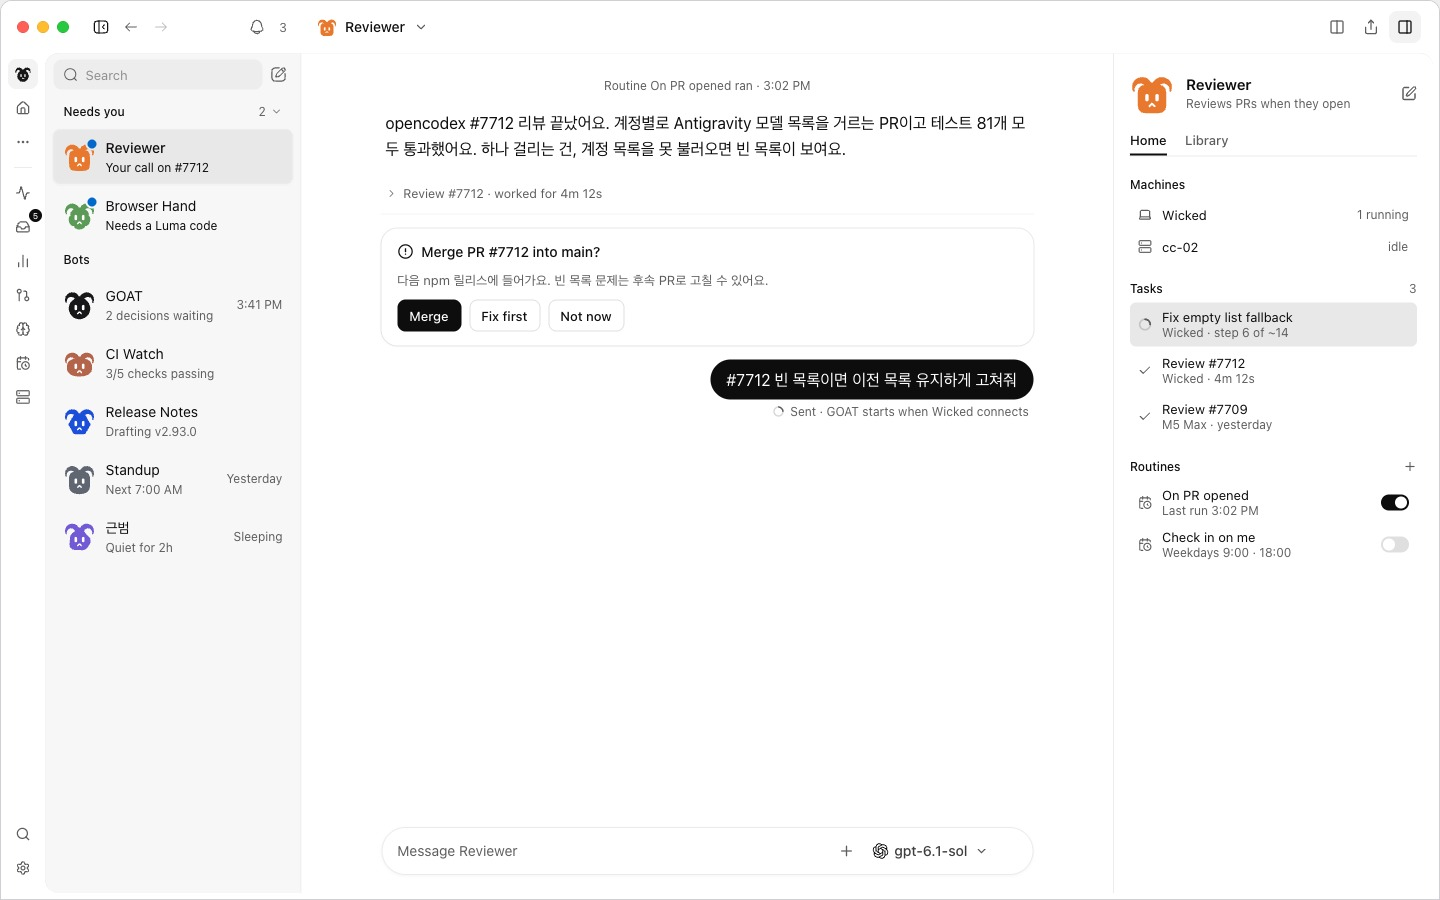
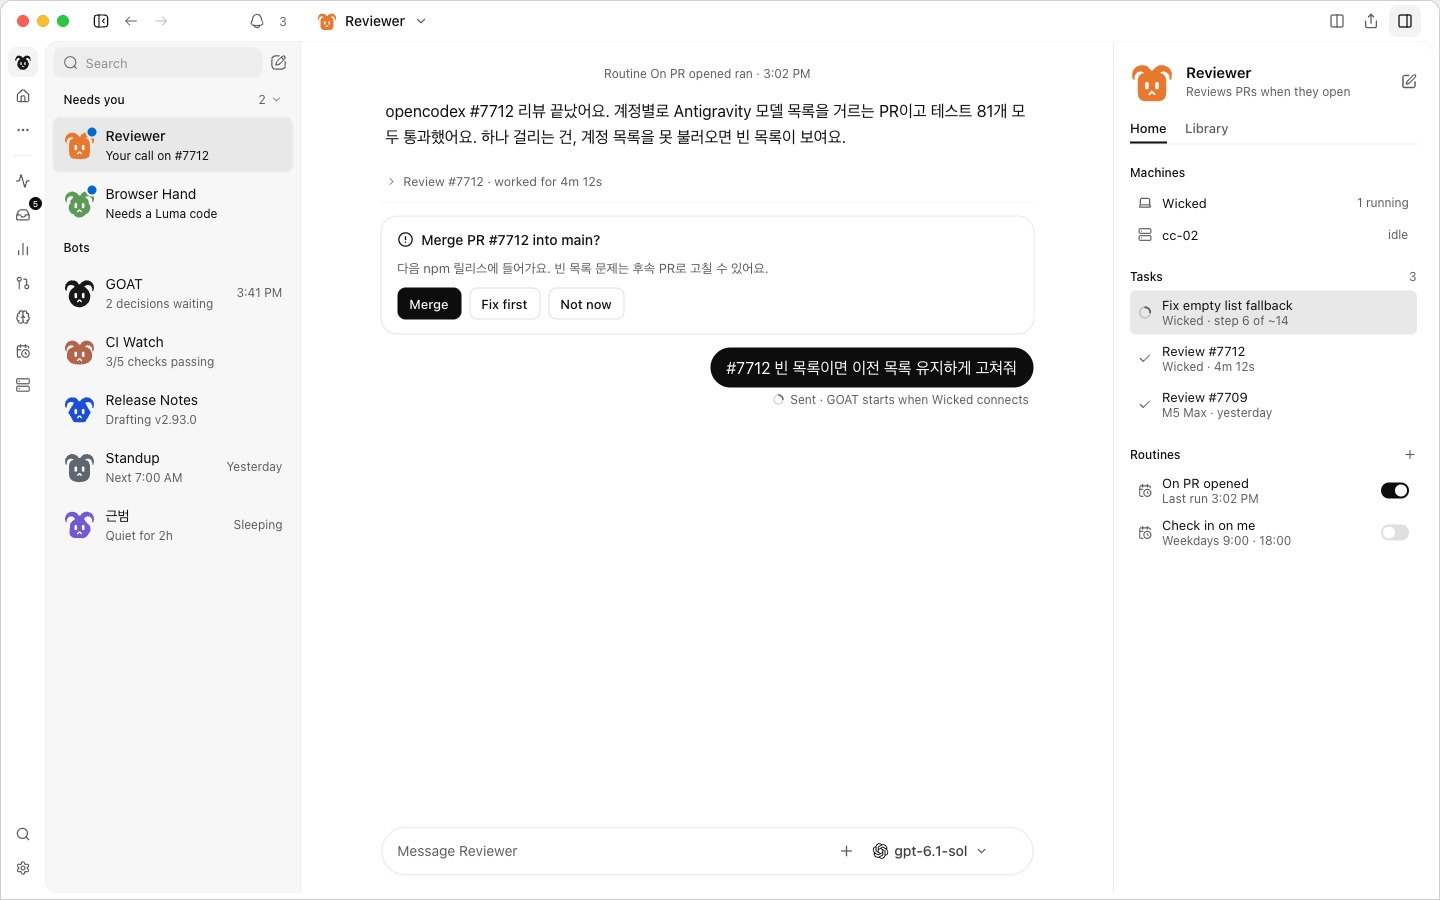
design: re-export Part 1 boards with 40px top bar; v1 timeline rendering; old prototype UI obsolete

diff --git a/design/paper/part1/12P-1.jsx b/design/paper/part1/12P-1.jsx
@@ -1,7 +1,7 @@
 (
     <div style={{ backgroundColor: '#FFFFFF', borderColor: '#CFCFD3', borderStyle: 'solid', borderTopLeftRadius: '12px', borderTopRightRadius: '12px', borderWidth: '1px', boxSizing: 'border-box', display: 'flex', flexDirection: 'column', fontSize: '12px', fontSynthesis: 'none', lineHeight: '16px', MozOsxFontSmoothing: 'grayscale', overflow: 'clip', overflowWrap: 'anywhere', WebkitFontSmoothing: 'antialiased' }}>
       <div style={{ backgroundColor: '#FFFFFF', boxSizing: 'border-box', display: 'flex', flexDirection: 'column', flexShrink: 0, height: '900px', minHeight: '0px', overflow: 'clip', width: '1440px' }}>
-        <div style={{ alignItems: 'center', boxSizing: 'border-box', display: 'flex', flexShrink: '0', height: '52px' }}>
+        <div style={{ alignItems: 'center', boxSizing: 'border-box', display: 'flex', flexShrink: '0', height: '40px', minHeight: '40px' }}>
           <div style={{ alignItems: 'center', boxSizing: 'border-box', display: 'flex', flexShrink: '0', gap: '10px', paddingLeft: '16px', paddingRight: '10px', width: '300px' }}>
             <div style={{ alignItems: 'center', boxSizing: 'border-box', display: 'flex', gap: '8px' }}>
               <div style={{ backgroundColor: '#FF5F57', borderRadius: 'calc(infinity * 1px)', boxShadow: '#0000001F 0px 0px 0px 0.5px inset', boxSizing: 'border-box', flexShrink: 0, height: '12px', width: '12px' }} />

diff --git a/design/paper/part1/U8-1.jsx b/design/paper/part1/U8-1.jsx
@@ -1,7 +1,7 @@
 (
     <div style={{ backgroundColor: '#FFFFFF', borderColor: '#D6D6D6', borderRadius: '8px', borderStyle: 'solid', borderWidth: '1px', boxSizing: 'border-box', display: 'flex', flexDirection: 'column', fontSize: '12px', fontSynthesis: 'none', lineHeight: '16px', MozOsxFontSmoothing: 'grayscale', overflow: 'clip', overflowWrap: 'anywhere', WebkitFontSmoothing: 'antialiased' }}>
       <div style={{ backgroundColor: '#FFFFFF', boxSizing: 'border-box', display: 'flex', flexDirection: 'column', flexShrink: 0, height: '900px', minHeight: '0px', overflow: 'clip', width: '1440px' }}>
-        <div style={{ alignItems: 'center', boxSizing: 'border-box', display: 'flex', flexShrink: '0', height: '52px' }}>
+        <div style={{ alignItems: 'center', boxSizing: 'border-box', display: 'flex', flexShrink: '0', height: '40px', minHeight: '40px' }}>
           <div style={{ alignItems: 'center', boxSizing: 'border-box', display: 'flex', flexShrink: '0', gap: '10px', paddingLeft: '16px', paddingRight: '10px', width: '300px' }}>
             <div style={{ alignItems: 'center', boxSizing: 'border-box', display: 'flex', gap: '8px' }}>
               <div style={{ backgroundColor: '#FF5F57', borderRadius: 'calc(infinity * 1px)', boxShadow: '#0000001F 0px 0px 0px 0.5px inset', boxSizing: 'border-box', flexShrink: 0, height: '12px', width: '12px' }} />

diff --git a/design/paper/part1/1KL4-1.jsx b/design/paper/part1/1KL4-1.jsx
@@ -1,7 +1,7 @@
 (
     <div style={{ backgroundColor: '#FFFFFF', boxSizing: 'border-box', display: 'flex', flexDirection: 'column', fontSize: '12px', fontSynthesis: 'none', lineHeight: '16px', MozOsxFontSmoothing: 'grayscale', overflow: 'clip', overflowWrap: 'anywhere', position: 'relative', WebkitFontSmoothing: 'antialiased' }}>
       <div style={{ backgroundColor: '#FFFFFF', boxSizing: 'border-box', display: 'flex', flexDirection: 'column', flexShrink: 0, height: '900px', minHeight: '0px', overflow: 'clip', width: '1440px' }}>
-        <div style={{ alignItems: 'center', boxSizing: 'border-box', display: 'flex', flexShrink: '0', height: '52px' }}>
+        <div style={{ alignItems: 'center', boxSizing: 'border-box', display: 'flex', flexShrink: '0', height: '40px', minHeight: '40px' }}>
           <div style={{ alignItems: 'center', boxSizing: 'border-box', display: 'flex', flexShrink: '0', gap: '10px', paddingLeft: '16px', paddingRight: '10px', width: '300px' }}>
             <div style={{ alignItems: 'center', boxSizing: 'border-box', display: 'flex', gap: '8px' }}>
               <div style={{ backgroundColor: '#FF5F57', borderRadius: 'calc(infinity * 1px)', boxShadow: '#0000001F 0px 0px 0px 0.5px inset', boxSizing: 'border-box', flexShrink: 0, height: '12px', width: '12px' }} />

diff --git a/design/paper/part1/1MFK-1.jsx b/design/paper/part1/1MFK-1.jsx
@@ -1,7 +1,7 @@
 (
     <div style={{ backgroundColor: '#FFFFFF', boxSizing: 'border-box', display: 'flex', flexDirection: 'column', fontSize: '12px', fontSynthesis: 'none', lineHeight: '16px', MozOsxFontSmoothing: 'grayscale', overflow: 'clip', overflowWrap: 'anywhere', WebkitFontSmoothing: 'antialiased' }}>
       <div style={{ backgroundColor: '#FFFFFF', boxSizing: 'border-box', display: 'flex', flexDirection: 'column', flexShrink: 0, height: '900px', minHeight: '0px', overflow: 'clip', width: '1440px' }}>
-        <div style={{ alignItems: 'center', boxSizing: 'border-box', display: 'flex', flexShrink: '0', height: '52px' }}>
+        <div style={{ alignItems: 'center', boxSizing: 'border-box', display: 'flex', flexShrink: '0', height: '40px', minHeight: '40px' }}>
           <div style={{ alignItems: 'center', boxSizing: 'border-box', display: 'flex', flexShrink: '0', gap: '10px', paddingLeft: '16px', paddingRight: '10px', width: '300px' }}>
             <div style={{ alignItems: 'center', boxSizing: 'border-box', display: 'flex', gap: '8px' }}>
               <div style={{ backgroundColor: '#FF5F57', borderRadius: 'calc(infinity * 1px)', boxShadow: '#0000001F 0px 0px 0px 0.5px inset', boxSizing: 'border-box', flexShrink: 0, height: '12px', width: '12px' }} />

diff --git a/design/paper/part1/25D-0.jsx b/design/paper/part1/25D-0.jsx
@@ -1,7 +1,7 @@
 (
     <div style={{ backgroundColor: '#FFFFFF', boxSizing: 'border-box', display: 'flex', flexDirection: 'column', fontSize: '12px', fontSynthesis: 'none', lineHeight: '16px', MozOsxFontSmoothing: 'grayscale', overflow: 'clip', overflowWrap: 'anywhere', WebkitFontSmoothing: 'antialiased' }}>
       <div style={{ backgroundColor: '#FFFFFF', boxSizing: 'border-box', display: 'flex', flexDirection: 'column', flexShrink: 0, height: '900px', minHeight: '0px', overflow: 'clip', width: '1440px' }}>
-        <div style={{ alignItems: 'center', boxSizing: 'border-box', display: 'flex', flexShrink: '0', height: '52px' }}>
+        <div style={{ alignItems: 'center', boxSizing: 'border-box', display: 'flex', flexShrink: '0', height: '40px', minHeight: '40px' }}>
           <div style={{ alignItems: 'center', boxSizing: 'border-box', display: 'flex', flexShrink: '0', gap: '10px', paddingLeft: '16px', paddingRight: '10px', width: '300px' }}>
             <div style={{ alignItems: 'center', boxSizing: 'border-box', display: 'flex', gap: '8px' }}>
               <div style={{ backgroundColor: '#FF5F57', borderRadius: 'calc(infinity * 1px)', boxShadow: '#0000001F 0px 0px 0px 0.5px inset', boxSizing: 'border-box', flexShrink: 0, height: '12px', width: '12px' }} />

diff --git a/design/paper/part1/2R-1.jsx b/design/paper/part1/2R-1.jsx
@@ -1,7 +1,7 @@
 (
     <div style={{ backgroundColor: '#FFFFFF', boxSizing: 'border-box', display: 'flex', flexDirection: 'column', fontSize: '12px', fontSynthesis: 'none', lineHeight: '16px', MozOsxFontSmoothing: 'grayscale', overflow: 'clip', overflowWrap: 'anywhere', WebkitFontSmoothing: 'antialiased' }}>
       <div style={{ backgroundColor: '#FFFFFF', boxSizing: 'border-box', display: 'flex', flexDirection: 'column', flexShrink: 0, height: '900px', minHeight: '0px', overflow: 'clip', width: '1440px' }}>
-        <div style={{ alignItems: 'center', boxSizing: 'border-box', display: 'flex', flexShrink: '0', height: '52px' }}>
+        <div style={{ alignItems: 'center', boxSizing: 'border-box', display: 'flex', flexShrink: '0', height: '40px', minHeight: '40px' }}>
           <div style={{ alignItems: 'center', boxSizing: 'border-box', display: 'flex', flexShrink: '0', gap: '10px', paddingLeft: '16px', paddingRight: '10px', width: '300px' }}>
             <div style={{ alignItems: 'center', boxSizing: 'border-box', display: 'flex', gap: '8px' }}>
               <div style={{ backgroundColor: '#FF5F57', borderRadius: 'calc(infinity * 1px)', boxShadow: '#0000001F 0px 0px 0px 0.5px inset', boxSizing: 'border-box', flexShrink: 0, height: '12px', width: '12px' }} />

diff --git a/design/paper/part1/C2Y-0.jsx b/design/paper/part1/C2Y-0.jsx
@@ -1,7 +1,7 @@
 (
     <div style={{ backgroundColor: '#FFFFFF', boxSizing: 'border-box', display: 'flex', flexDirection: 'column', fontSize: '12px', fontSynthesis: 'none', lineHeight: '16px', MozOsxFontSmoothing: 'grayscale', overflow: 'clip', overflowWrap: 'anywhere', WebkitFontSmoothing: 'antialiased' }}>
       <div style={{ backgroundColor: '#FFFFFF', boxSizing: 'border-box', display: 'flex', flexDirection: 'column', flexShrink: 0, height: '900px', minHeight: '0px', overflow: 'clip', width: '1440px' }}>
-        <div style={{ alignItems: 'center', boxSizing: 'border-box', display: 'flex', flexShrink: '0', height: '52px' }}>
+        <div style={{ alignItems: 'center', boxSizing: 'border-box', display: 'flex', flexShrink: '0', height: '40px', minHeight: '40px' }}>
           <div style={{ alignItems: 'center', boxSizing: 'border-box', display: 'flex', flexShrink: '0', gap: '10px', paddingLeft: '16px', paddingRight: '10px', width: '300px' }}>
             <div style={{ alignItems: 'center', boxSizing: 'border-box', display: 'flex', gap: '8px' }}>
               <div style={{ backgroundColor: '#FF5F57', borderRadius: 'calc(infinity * 1px)', boxShadow: '#0000001F 0px 0px 0px 0.5px inset', boxSizing: 'border-box', flexShrink: 0, height: '12px', width: '12px' }} />

diff --git a/design/paper/part1/LXD-0.jsx b/design/paper/part1/LXD-0.jsx
@@ -1,7 +1,7 @@
 (
     <div style={{ backgroundColor: '#FFFFFF', boxSizing: 'border-box', display: 'flex', flexDirection: 'column', fontSize: '12px', fontSynthesis: 'none', lineHeight: '16px', MozOsxFontSmoothing: 'grayscale', overflow: 'clip', overflowWrap: 'anywhere', WebkitFontSmoothing: 'antialiased' }}>
       <div style={{ backgroundColor: '#FFFFFF', boxSizing: 'border-box', display: 'flex', flexDirection: 'column', flexShrink: 0, height: '900px', minHeight: '0px', overflow: 'clip', width: '1440px' }}>
-        <div style={{ alignItems: 'center', boxSizing: 'border-box', display: 'flex', flexShrink: '0', height: '52px' }}>
+        <div style={{ alignItems: 'center', boxSizing: 'border-box', display: 'flex', flexShrink: '0', height: '40px', minHeight: '40px' }}>
           <div style={{ alignItems: 'center', boxSizing: 'border-box', display: 'flex', flexShrink: '0', gap: '10px', paddingLeft: '16px', paddingRight: '10px', width: '300px' }}>
             <div style={{ alignItems: 'center', boxSizing: 'border-box', display: 'flex', gap: '8px' }}>
               <div style={{ backgroundColor: '#FF5F57', borderRadius: 'calc(infinity * 1px)', boxShadow: '#0000001F 0px 0px 0px 0.5px inset', boxSizing: 'border-box', flexShrink: 0, height: '12px', width: '12px' }} />

diff --git a/design/paper/part1/FF-1.jsx b/design/paper/part1/FF-1.jsx
@@ -1,7 +1,7 @@
 (
     <div style={{ backgroundColor: '#FFFFFF', boxSizing: 'border-box', display: 'flex', flexDirection: 'column', fontSize: '12px', fontSynthesis: 'none', lineHeight: '16px', MozOsxFontSmoothing: 'grayscale', overflow: 'clip', overflowWrap: 'anywhere', WebkitFontSmoothing: 'antialiased' }}>
       <div style={{ backgroundColor: '#FFFFFF', boxSizing: 'border-box', display: 'flex', flexDirection: 'column', flexShrink: 0, height: '900px', minHeight: '0px', overflow: 'clip', width: '1440px' }}>
-        <div style={{ alignItems: 'center', boxSizing: 'border-box', display: 'flex', flexShrink: '0', height: '52px' }}>
+        <div style={{ alignItems: 'center', boxSizing: 'border-box', display: 'flex', flexShrink: '0', height: '40px', minHeight: '40px' }}>
           <div style={{ alignItems: 'center', boxSizing: 'border-box', display: 'flex', flexShrink: '0', gap: '18px', paddingLeft: '20px', width: '176px' }}>
             <div style={{ alignItems: 'center', boxSizing: 'border-box', display: 'flex', gap: '8px' }}>
               <div style={{ backgroundColor: '#FF5F57', borderRadius: 'calc(infinity * 1px)', boxShadow: '#0000001F 0px 0px 0px 0.5px inset', boxSizing: 'border-box', flexShrink: 0, height: '12px', width: '12px' }} />

diff --git a/design/paper/part1/README.md b/design/paper/part1/README.md
@@ -20,5 +20,17 @@ in-page API: `get_jsx({nodeId, includeNodeIds:false})` -> `<id>.jsx`, `get_scree
 | C2Y-0 T1 스레드 Chat | thread view with the GOAT chat renderer |
 | 1MFK-1 T4 대기 메시지 | queued messages banner above the composer (v1 QueuedRunsControl): header list icon + "Queued" + count + chevron; rows grip, truncated text, Edit, Send now (promote to steer), Delete |
 
+Re-exported 2026-11-28 ~21:35 KST after the top bar went to **40px** on every desktop board (owner: the
+rail is 44px, so the top bar is 40px; supersedes the earlier 52px rule).
+
 Rule overrides newer than some boards: one blue dot `#0169CC` + black rail counts (no red `--color-decide`
-/ green `--color-done`), moving face instead of spinners, English copy first, macOS top bar 52px.
+/ green `--color-done`), moving face instead of spinners, English copy first, top bar 40px.
+
+**Thread timeline rendering is GOAT v1's, not redrawn:** the working row, work-log groups and fold labels
+in C2Y-0 / 1MFK-1 are illustrations. Lift v1's components as-is (`~/Developer/goat` `origin/dev`
+`apps/web/src/components/chat/`: `TimelineWorkGroupRows.tsx` `WorkingTimelineRow` ("Working for <timer>",
+shimmer, bottom border), work-log entry rows, `TurnFoldLabel.tsx` ("Worked for {duration}")), record them in
+`docs/PROVENANCE.md`. The boards decide layout around the timeline, v1 decides how the timeline looks.
+
+**The old prototype UI** (apps/web before lane F: 290px list sidebar, no rail, red "Needs you") is obsolete.
+These exports are the latest UI.

diff --git a/docs/DECISIONS.md b/docs/DECISIONS.md
@@ -77,3 +77,9 @@ Newest at the bottom.
   behaviour (thread.send/wait/watch/report_result, queue edit/promote-to-steer, child wakes, follow-up
   modes, restart settlement) is ported with equal behaviour, checked against v1's capability flags
   and recorded-session scenarios. Builds run through GOAT v1 on other hosts, not in Aside.
+- **Top bar 40px (supersedes "macOS top bar 52px").** The rail is 44px, so the top bar is 40px on every
+  desktop screen. Paper boards updated 2026-11-28 ~21:35 KST and re-exported to `design/paper/part1/`.
+- **Thread timeline = GOAT v1's rendering.** Working row ("Working for <timer>"), work-log groups and
+  "Worked for {duration}" folds are lifted from v1 `apps/web/src/components/chat/`, not redrawn from Paper.
+- **The old prototype UI is obsolete.** The Dev app and the published prototype must show the Paper UI
+  (lane F), not the pre-rail prototype.
